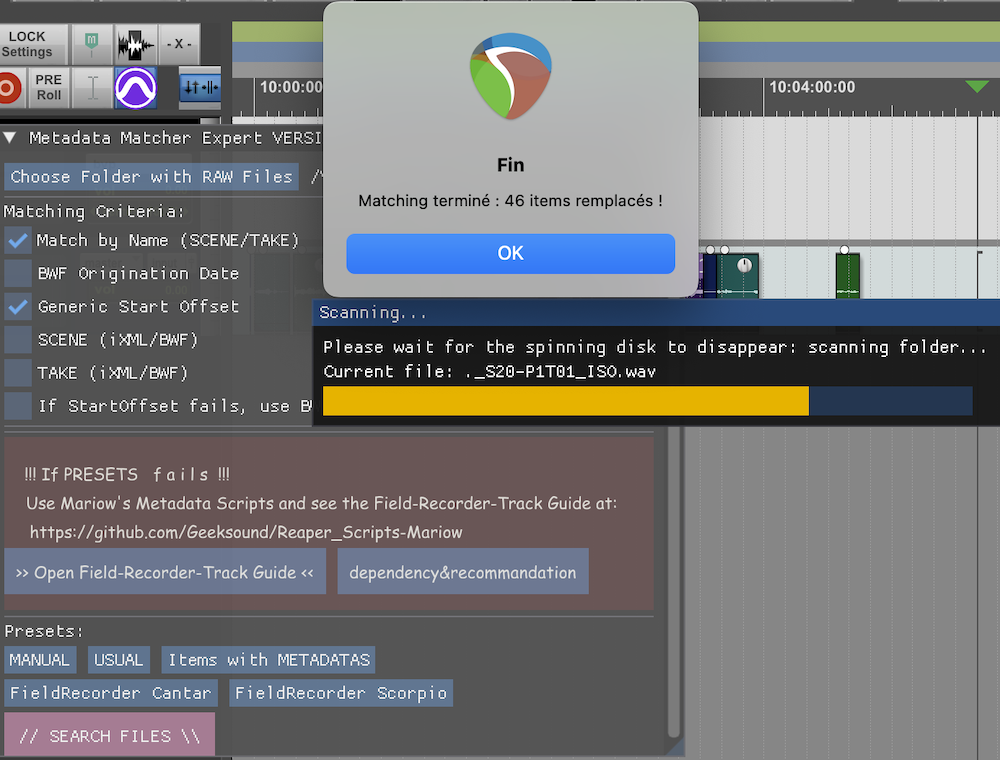
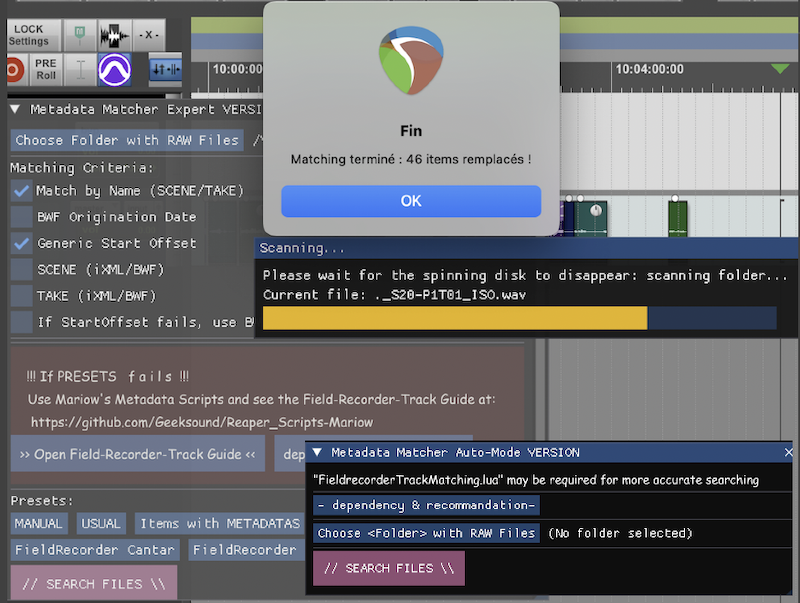
Mise à jour ReaPack

diff --git a/README.md b/README.md
@@ -94,6 +94,10 @@ Swap 2 Items on a Track for listening and editing purpose
 </p> 
 
 
+## 2 VERSIONS of the famous Fieldrecorder-Track that everyone thought was exclusive to **PROTOOLS**
+##  1.Full version with innovative Presets
+##  2.Auto-mode version that will work on its own in most cases
+
 <p align="center">
   <img src="PICTURES/Fieldrecorder-Tracks.png" alt="Overview of 'MetadataMatcher'" width="800" />
 </p> 
